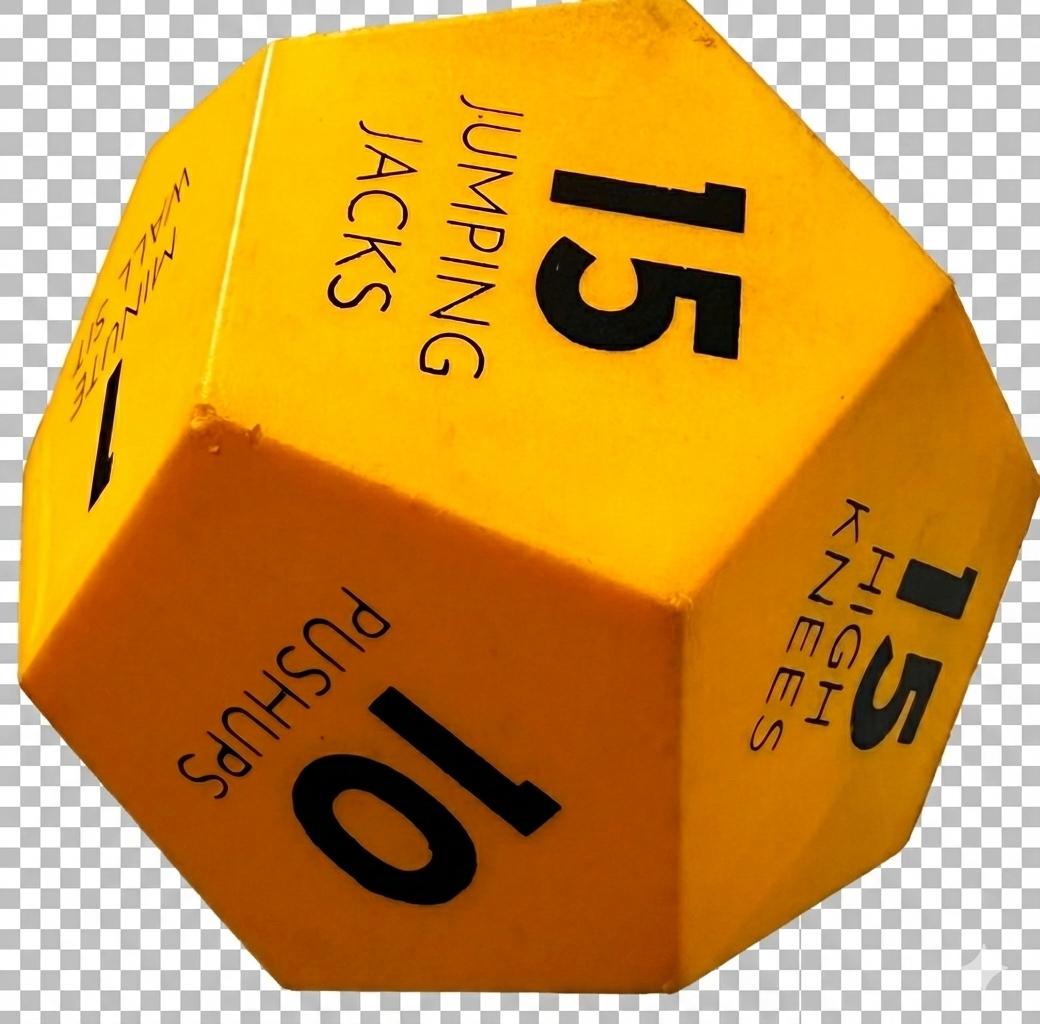
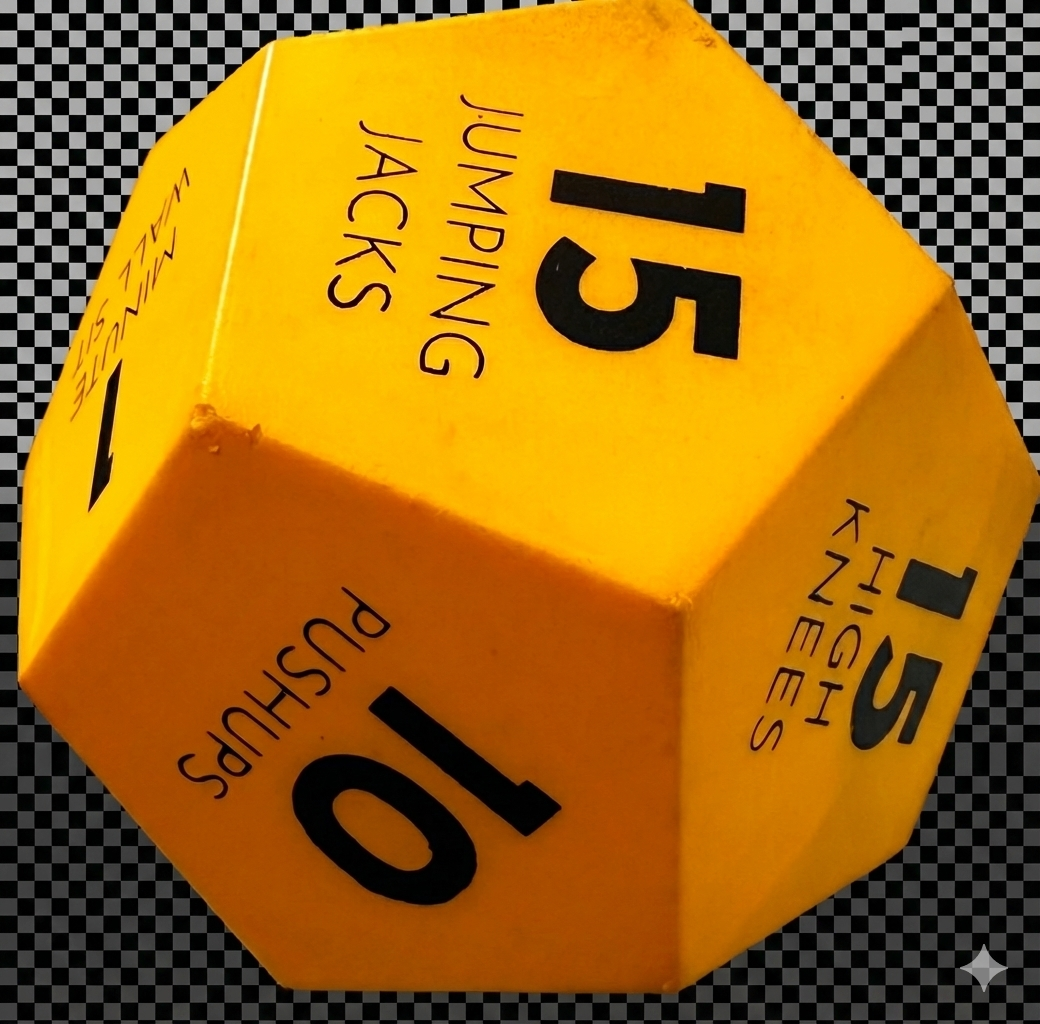
Wow. I can't spell.

Changed region(s): [[0.0, 0.0, 1.0, 1.0]]

diff --git a/README.md b/README.md
@@ -1,3 +1,3 @@
 # Q Master
 
-F3 Q Master. A map to manage your F3 workouts  (digital weinke)
+F3 Q Master. An app to manage your F3 workouts  (digital weinke)
